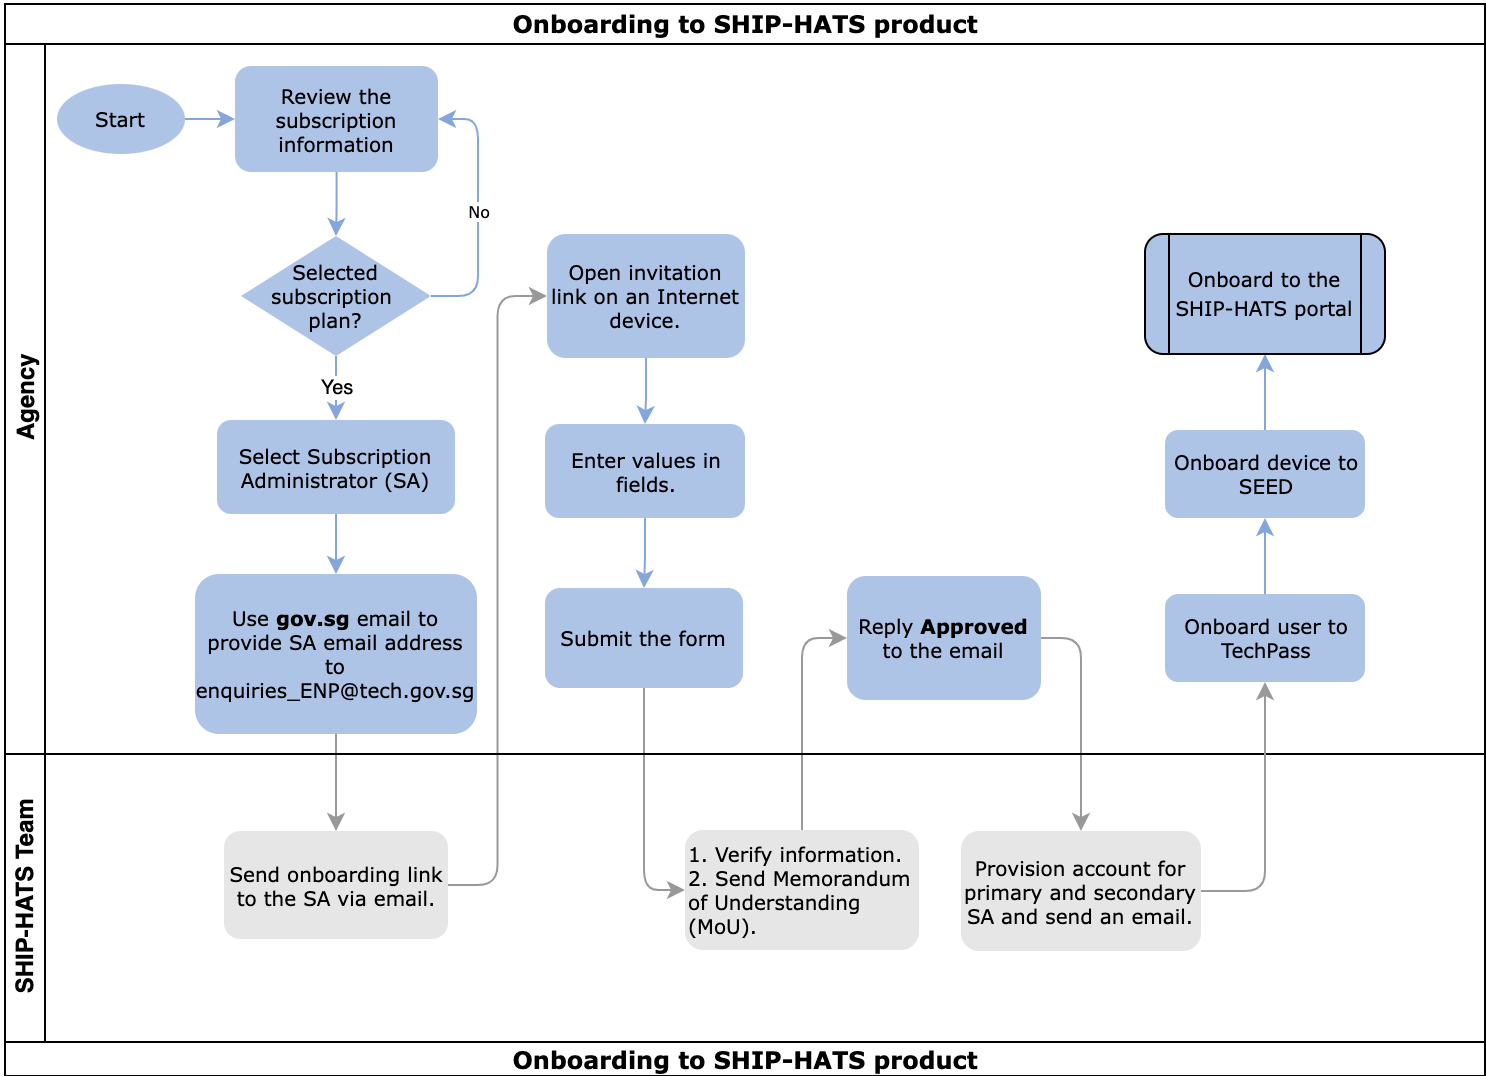
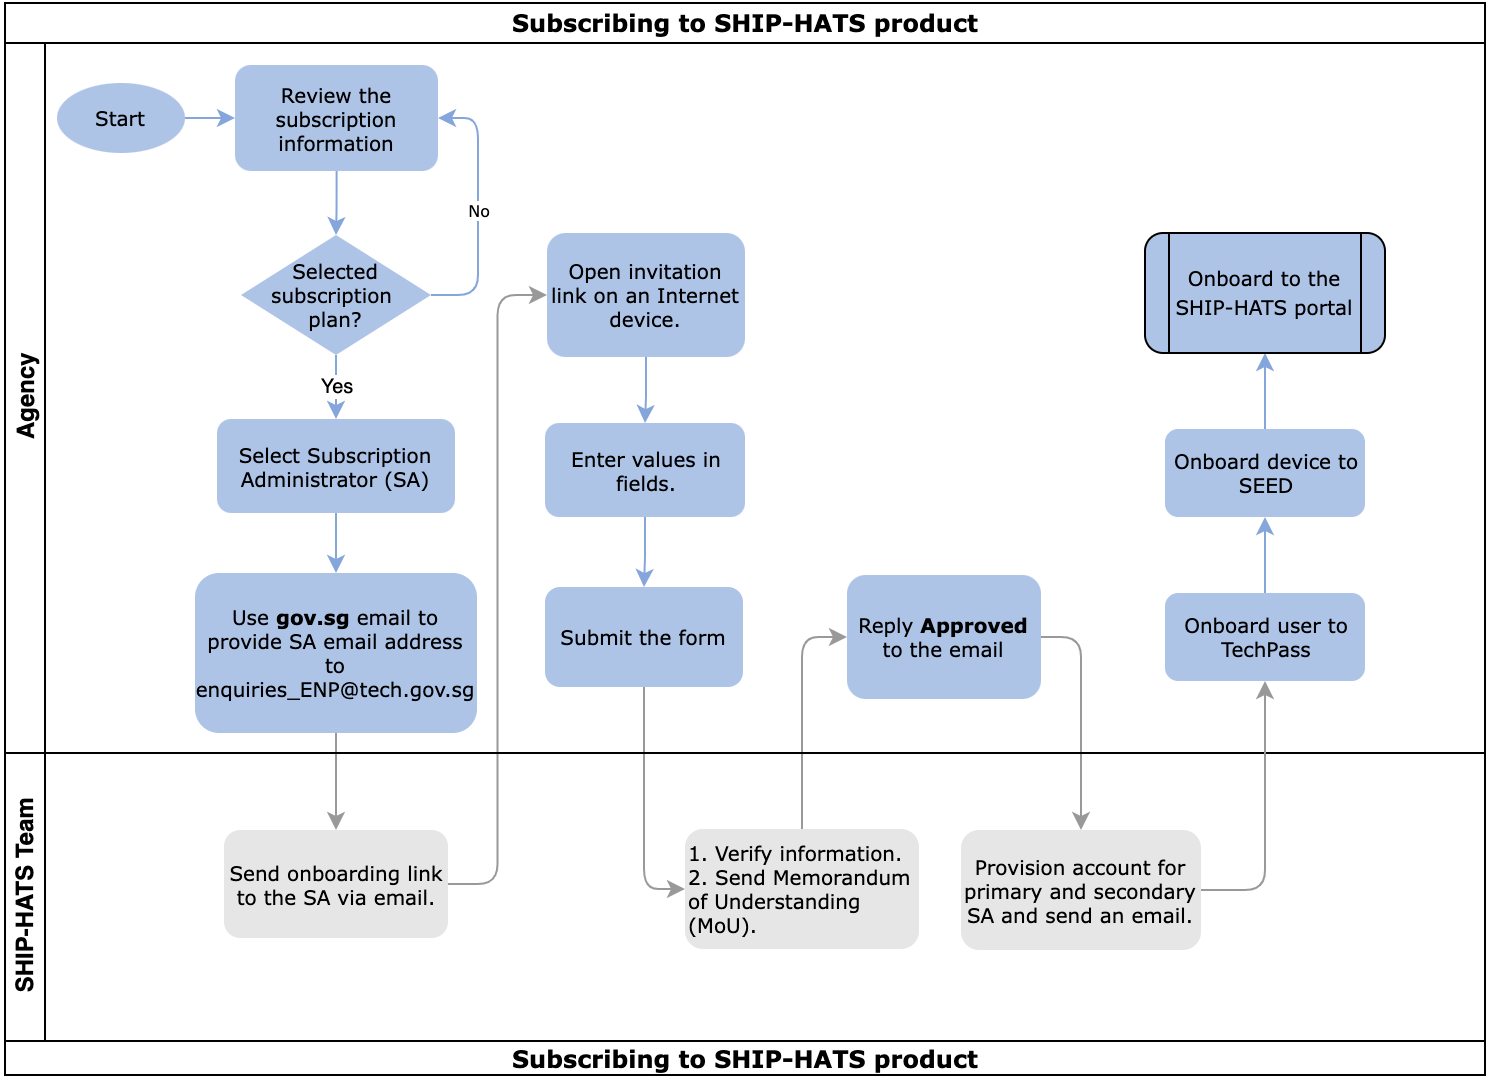
feedback

diff --git a/subscribing-to-ship-hats.md b/subscribing-to-ship-hats.md
@@ -25,7 +25,7 @@ These tasks may be completed by multiple people in your organization and SHIP-HA
 <!--![Onboarding](./images/onboarding-ship-hats.png)-->
 
 <p align="center">
-  <img src="./images/onboarding-ship-hats.png">
+  <img src="./images/subscribing-ship-hats.png">
 </p>
 
 |Step|Task|Owner|
